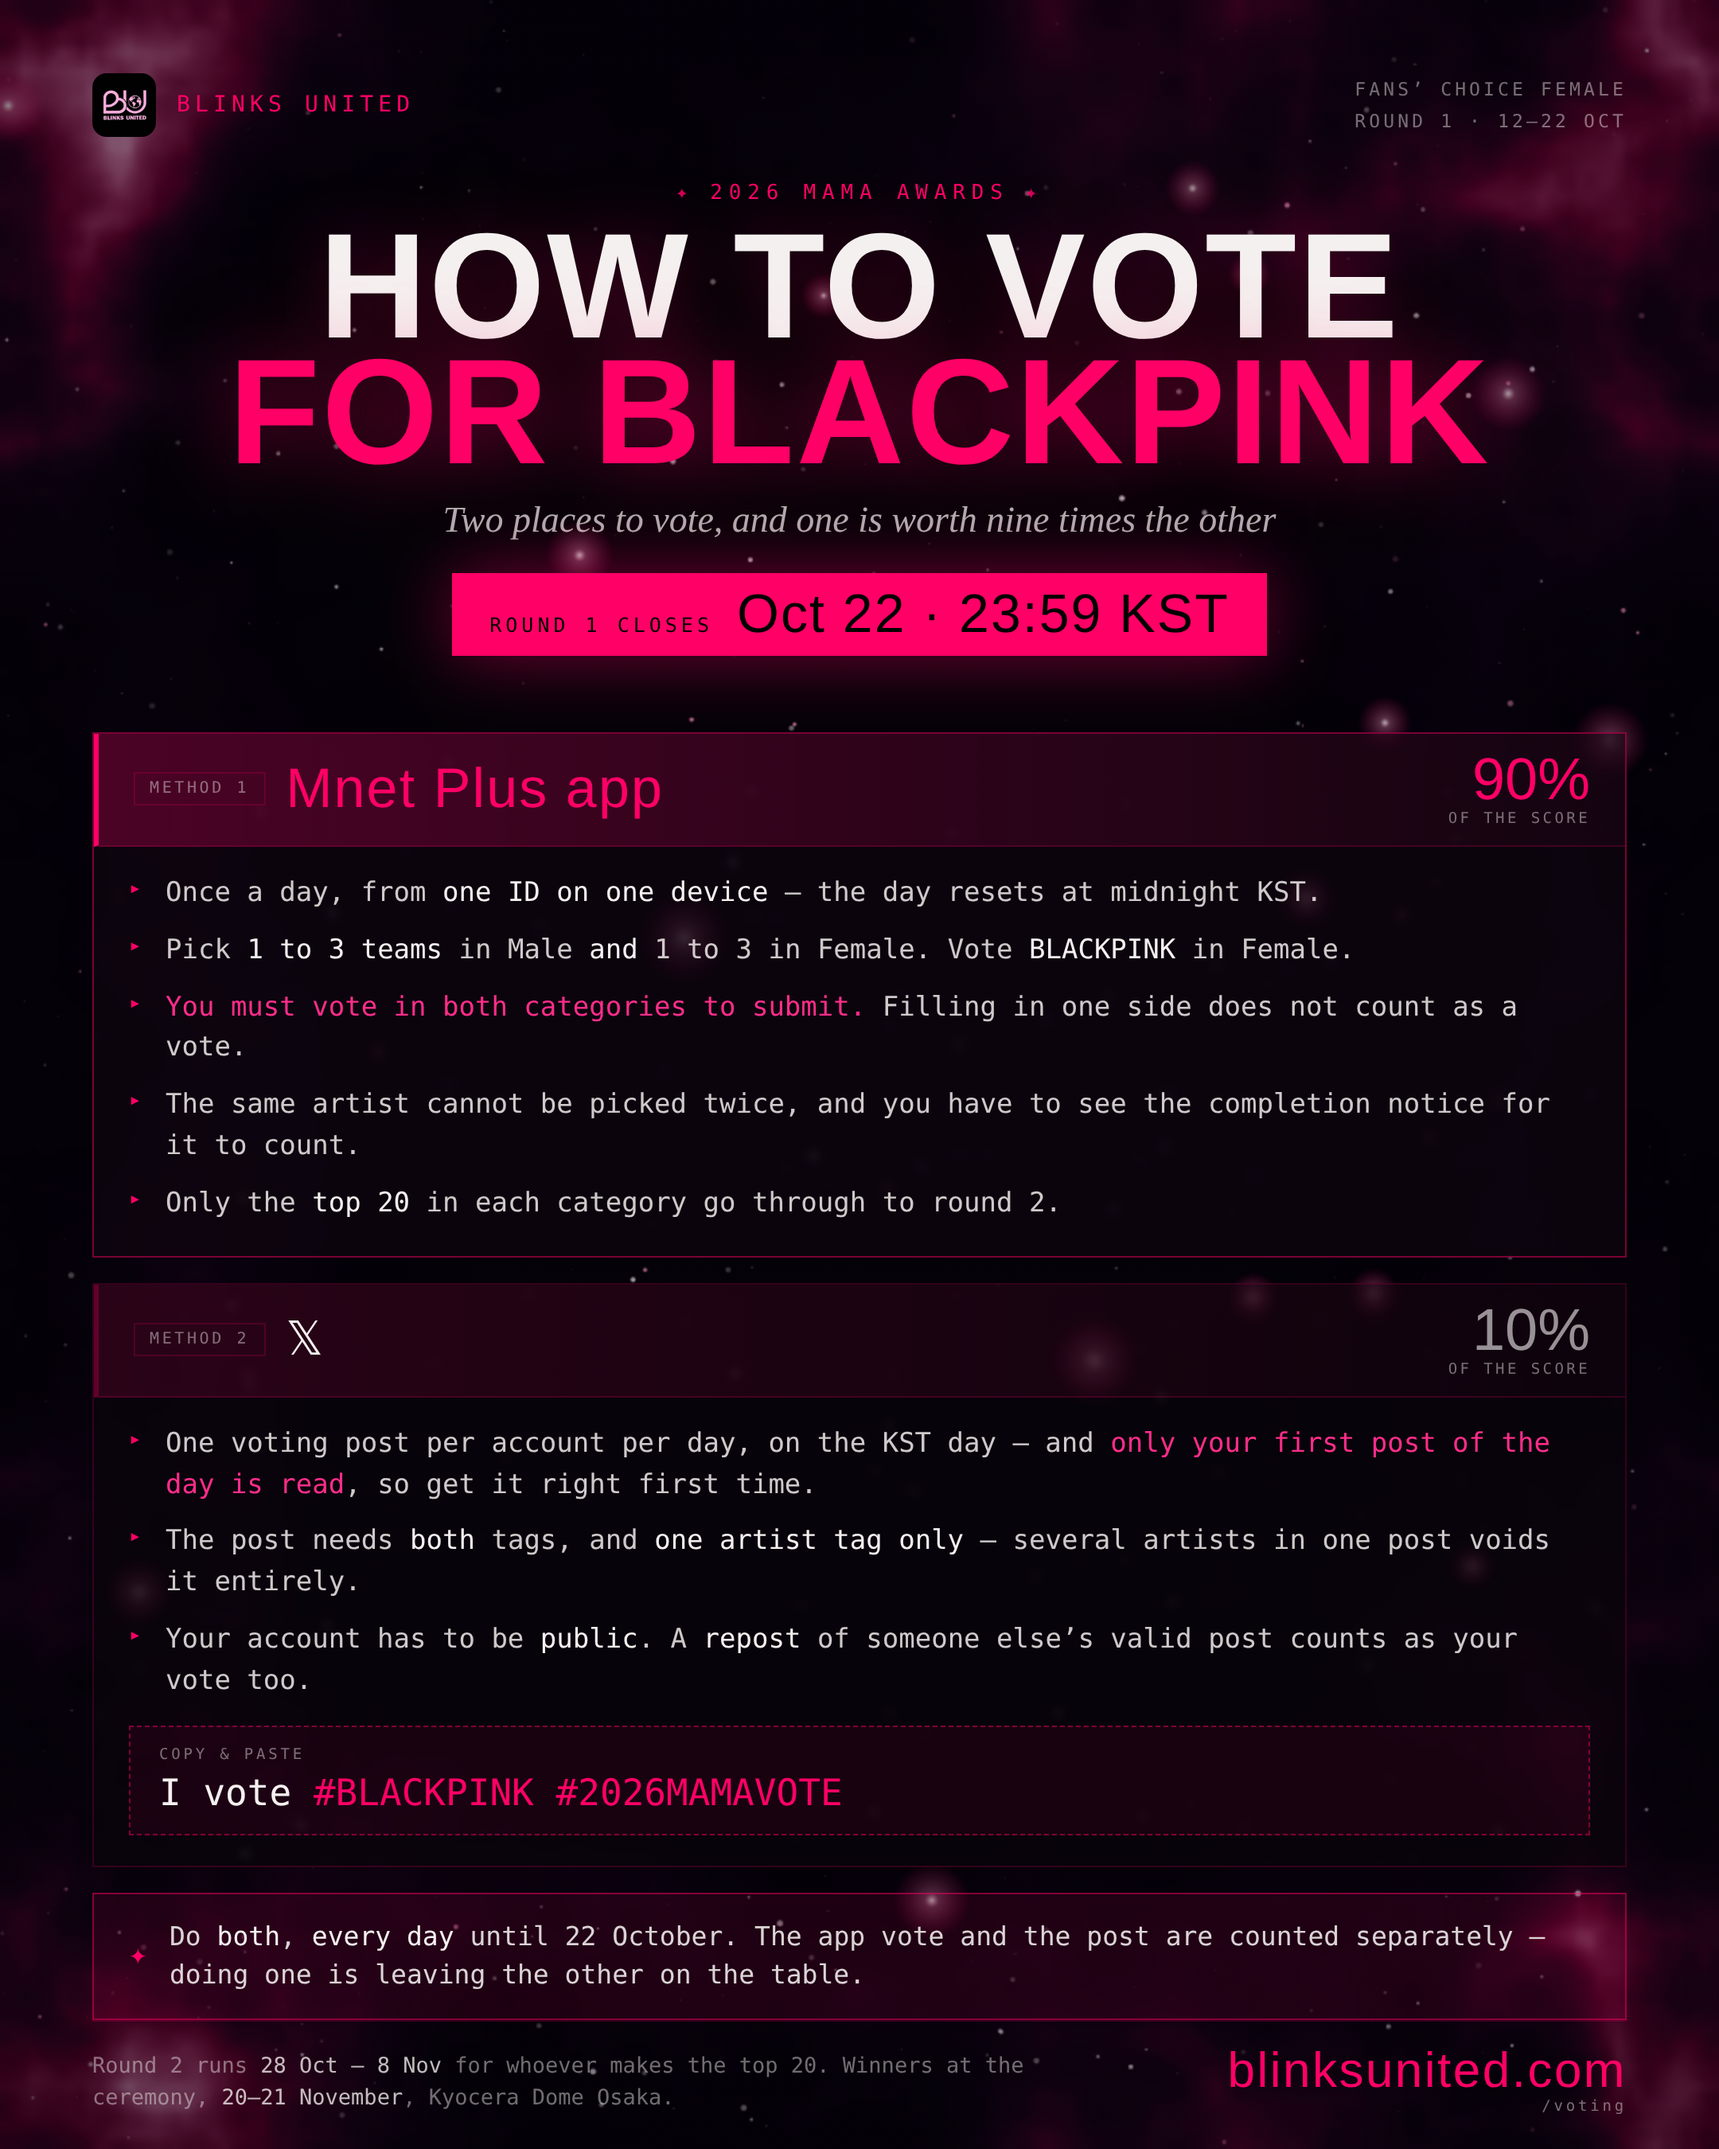
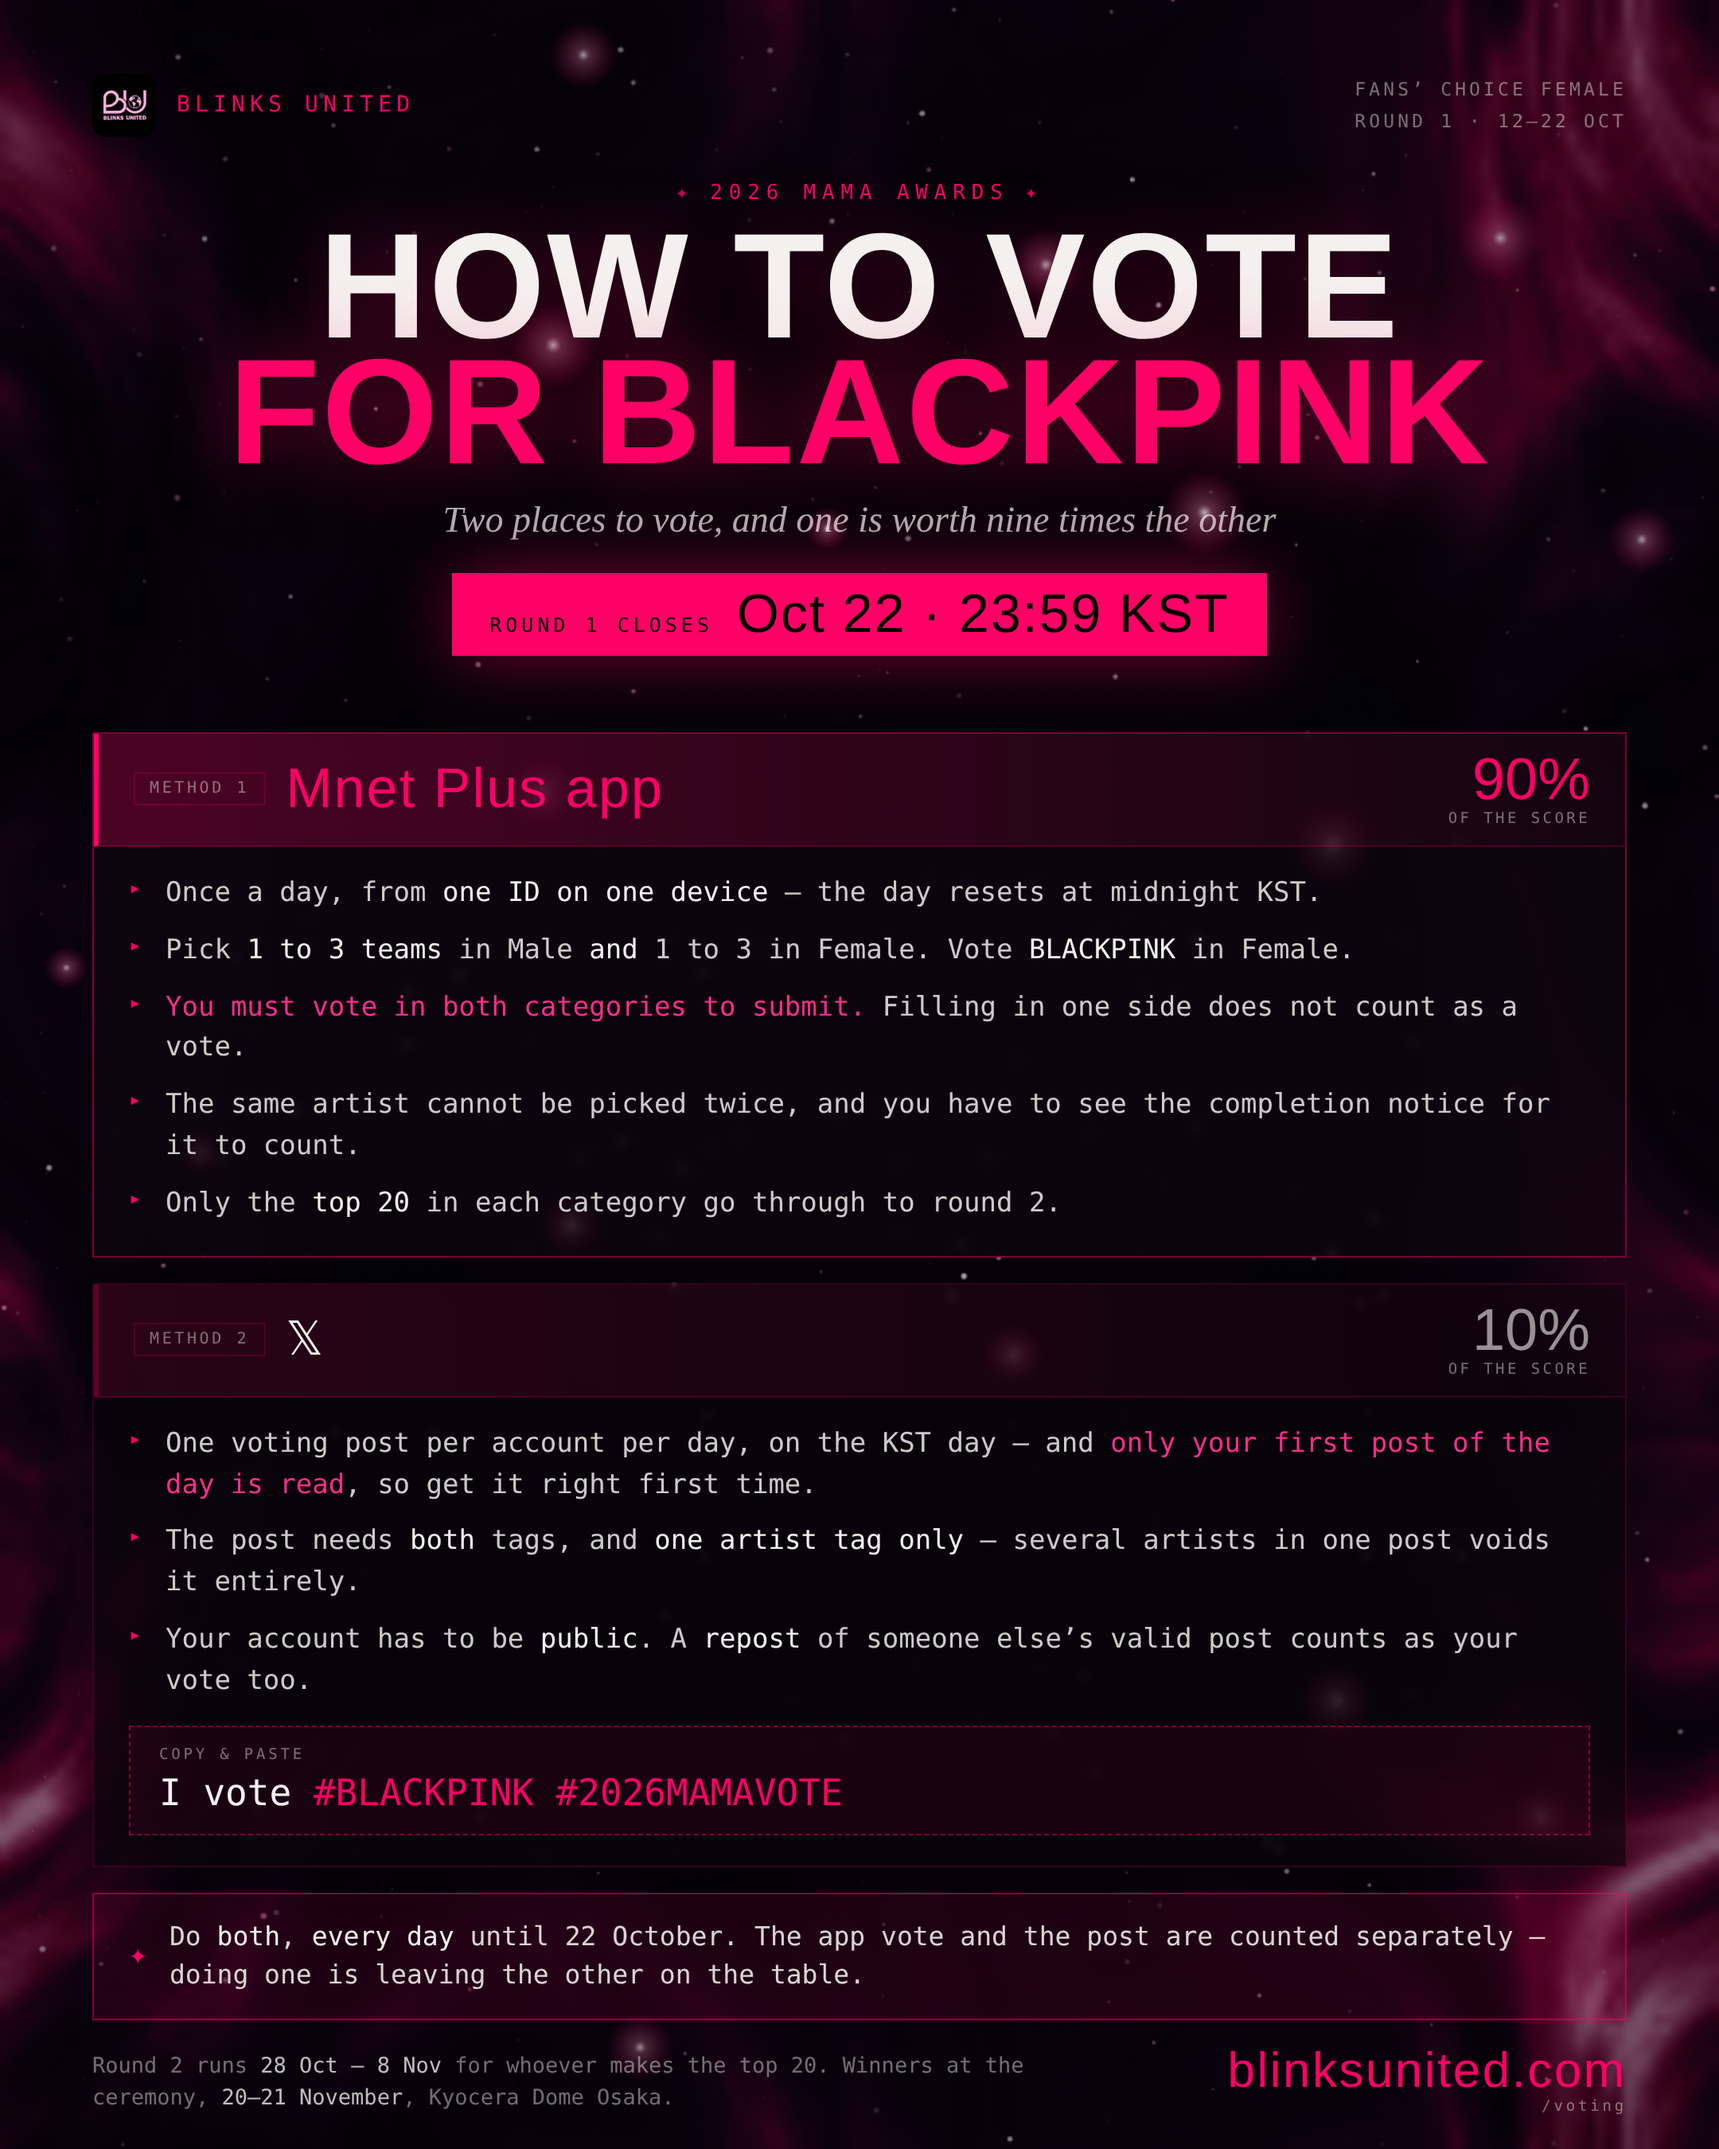
mama guide: give the gas a direction
What was still missing against the reference was flow. Their wisps stream and
curl; mine were isotropic clumps of filament — correct texture, no motion.

Two changes. The noise grids are now wider than they are tall relative to the
frame, which stretches every feature along one axis. And the sampling point is
itself displaced by a second, coarser pair of noise fields before it is read —
domain warping — skewed so the drift runs diagonally. That second one is what
matters: it bends the strands into streams instead of leaving them as
concentric rings, which is the difference between fractal texture and gas.

Brightness and the clear middle retuned around it, since warping moves where
the cloud lands.

Claude-Session: https://claude.ai/code/session_01HPbAAWRiDyNszfqpAtqo9o

diff --git a/mama-guide.html b/mama-guide.html
@@ -355,8 +355,24 @@
     const v00 = at(x0, y0), v10 = at(x0 + 1, y0), v01 = at(x0, y0 + 1), v11 = at(x0 + 1, y0 + 1);
     return (v00 * (1 - fx) + v10 * fx) * (1 - fy) + (v01 * (1 - fx) + v11 * fx) * fy;
   }
-  const OCT = [makeGrid(3, 4), makeGrid(6, 7), makeGrid(11, 14), makeGrid(22, 27), makeGrid(44, 55), makeGrid(88, 110)];
+  // The grids are WIDER THAN THEY ARE TALL relative to the frame, which
+  // stretches every feature along one axis. Isotropic noise gives round clumps
+  // of filament; real nebulae — and the reference's — have gas streaming in a
+  // direction. This is the cheap half of that.
+  const OCT = [makeGrid(4, 3), makeGrid(8, 5), makeGrid(15, 10), makeGrid(29, 19), makeGrid(57, 37), makeGrid(113, 73)];
+  // Two small grids used only to push the sampling point around.
+  const WARP_X = makeGrid(5, 4), WARP_Y = makeGrid(4, 5);
+
   function ridged(u, v) {
+    // DOMAIN WARPING: sample the noise at a point that has itself been moved by
+    // other noise. This is the expensive half, and it is the one that matters —
+    // it bends the strands into streams and curls instead of leaving them as
+    // concentric rings, which is the difference between "fractal texture" and
+    // "gas". Skewed so the drift runs diagonally, the way the reference's does.
+    const wx = (sample(WARP_X, u, v) - 0.5), wy = (sample(WARP_Y, u, v) - 0.5);
+    u = u + wx * 0.34 + wy * 0.12;
+    v = v + wy * 0.22 - wx * 0.10;
+
     let sum = 0, amp = 0.55, norm = 0;
     for (let o = 0; o < OCT.length; o++) {
       const n = sample(OCT[o], u, v);
@@ -383,11 +399,11 @@
       // band, and a nebula drifting across them would cost more than it adds.
       const dx = (u - 0.5) * 2, dy = (v - 0.5) * 2;
       const d = Math.sqrt(dx * dx + dy * dy * 0.82);
-      let mask = Math.min(1, Math.pow(Math.max(0, d - 0.46) / 0.72, 2.2));
+      let mask = Math.min(1, Math.pow(Math.max(0, d - 0.52) / 0.62, 2.3));
 
       let n = ridged(u, v);
-      n = Math.pow(Math.max(0, n - 0.44) / 0.56, 2.4);   // cut the haze, keep the strands
-      const a = Math.min(1, n * mask * 1.25);
+      n = Math.pow(Math.max(0, n - 0.46) / 0.54, 2.1);   // cut the haze, keep the strands
+      const a = Math.min(1, n * mask * 1.55);
       if (a <= 0.004) { img.data[(y * NW + x) * 4 + 3] = 0; continue; }
 
       // Dim gas is violet, bright gas is the site's pink going to near-white at
